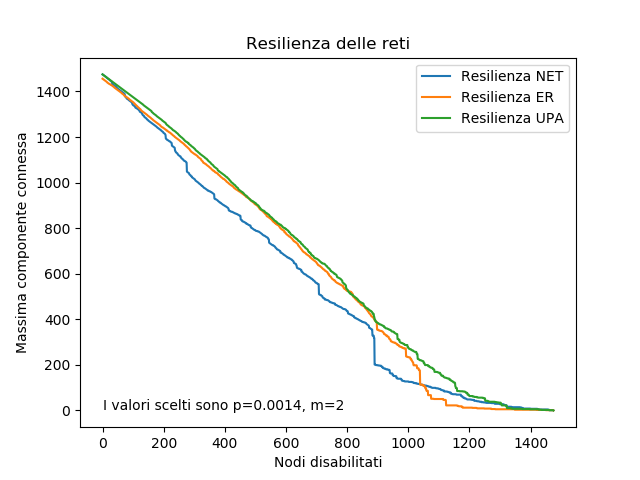
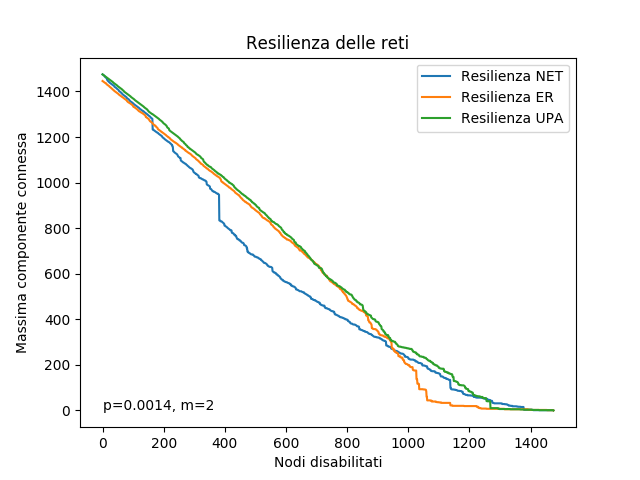
pusho tutto

diff --git a/lab2/es1.py b/lab2/es1.py
@@ -29,8 +29,25 @@ class Graph:
 
         return adj_list
 
-    def remove_node_from_graph(self):
-        to_remove = random.choice(list(self.adj_list.keys()))
+    def get_max_degree_node(self):
+        max = -1
+        key = None
+        for i in self.adj_list:
+            if len(self.adj_list[i]) > max:
+                max = len(self.adj_list[i])
+                key = i
+
+        print("Chiave:", key)
+        print("Nodi collegati:", self.adj_list[key])
+        print("Grado:", len(self.adj_list[key]))
+        return key
+
+
+
+#TODO: l'algoritmo va avanti fino a quando ha tolto tutti i nodi
+    def remove_node_from_graph(self, mode="random"):
+        # to remove = nodo da rimuovere, random = casuale, max = nodo con max grado
+        to_remove = self.get_max_degree_node() if mode == "max" else random.choice(list(self.adj_list.keys()))
         to_sanitize = self.adj_list.pop(to_remove)
         # print("NODO SCELTO", to_remove)
 
@@ -38,7 +55,6 @@ class Graph:
             for index, value in enumerate(self.adj_list[i]):
                 if value == to_remove:
                     self.adj_list[i].pop(index)
-
 
     def DFS_Visited(self, u, visited):
         self.color[u] = Color.BLACK
@@ -63,15 +79,24 @@ class Graph:
 
         return CC
 
+    def compute_resilience(self, CC):
+        max = 0
+        for i in CC:
+            if len(i) > max:
+                max = len(i)
 
-    def get_resiliences(self):
+        return max
+
+    def get_resiliences(self, p, mode="random"):
         resiliences = []
-        for i in range(n):
-            self.remove_node_from_graph()
+        for i in range(self.numNodes):
+            self.remove_node_from_graph(mode)
             CC = self.connected_components()
             # print("CC", CC)
-            #compute_resilience non è metodo della classe
-            resilience = compute_resilience(CC)
+            #TODO: compute_resilience non è metodo della classe
+            resilience = self.compute_resilience(CC)  # comp conn più grande in questo turno
+            if i + 1 == p:  # parte da 0
+                print("Resilienza dopo aver disattivato 20% di nodi:", 100/(self.numNodes - p + 1)*resilience, "%") #TODO +1 perche almeno una unita
             # print("Resilienza", resilience)
             resiliences.append(resilience)
         return resiliences
@@ -114,14 +139,6 @@ def UPA(n, m):
             E.append((u, v))
     return V, E
 
-def compute_resilience(CC):
-    max = 0
-    for i in CC:
-        if len(i) > max:
-            max = len(i)
-
-    return max
-
 
 def ER(n,p):
     V = [x for x in range(n)]
@@ -136,12 +153,13 @@ def ER(n,p):
 
 if __name__ == '__main__':
     data = np.loadtxt("./as19991212.txt", dtype=int)
-    coda = data[:,0]
-    testa = data[:,1]
+    coda = data[:, 0]
+    testa = data[:, 1]
     x = set(coda)
     y = set(testa)
     z = x.union(y)
     n = len(z)  # numero di nodi
+    twenty_percent = int(n * 0.20)  # frazione signifiicativa di nodi
 
     G_NET = Graph(z, data)
     adj_list_net = G_NET.adj_list
@@ -151,21 +169,23 @@ if __name__ == '__main__':
     print("NODI NET:", n)
     print("ARCHI NET:", int(sum([len(adj_list_net[i]) for i in z])/2))  # /2 perchè ci sono 2 archi
 
-    m=int(mean/2)
+    m = int(mean/2)
     V_UPA, E_UPA = UPA(n, m) # rich get richer va bene
     G_UPA = Graph(V_UPA, E_UPA)
     print("NODI UPA:", len(V_UPA))
     print("ARCHI UPA:", len(E_UPA))
 
-    p=0.0014
+    p = 0.0014
     V_ER, E_ER = ER(n, p)
     G_ER = Graph(V_ER, E_ER)
     print("NODI ER:", len(V_ER))
     print("ARCHI ER:", len(E_ER))
 
-    res_NET = G_NET.get_resiliences()
-    res_ER = G_ER.get_resiliences()
-    res_UPA = G_UPA.get_resiliences()
+    # modalità di attacco, "random" o "max"
+    mode = "max"
+    res_NET = G_NET.get_resiliences(n, mode)
+    res_ER = G_ER.get_resiliences(n, mode)
+    res_UPA = G_UPA.get_resiliences(n, mode)
 
     plt.plot(np.arange(0, len(res_NET)), res_NET, label="Resilienza NET")
     plt.plot(np.arange(0, len(res_ER)), res_ER, label="Resilienza ER")
@@ -175,7 +195,7 @@ if __name__ == '__main__':
     plt.ylabel("Massima componente connessa")
     plt.title("Resilienza delle reti")
 
-    plt.text(0, 0, 'I valori scelti sono p='+str(p)+', m='+str(m))
-    plt.savefig("lab2-es1.png")
+    plt.text(0, 0, 'p='+str(p)+', m='+str(m))
+    plt.savefig("lab2-es3.png")
 
     plt.show()

diff --git a/lab1/es3.py b/lab1/es3.py
@@ -25,6 +25,14 @@ class DPATrial:
 
         return V
 
+
+class ClassName(object):
+    """docstring for ClassName"""
+    def __init__(self, arg):
+        super(ClassName, self).__init__()
+        self.arg = arg
+        
+        
 # n >= 1, 1 <= m <= n
 def DPA(n, m):
     V = [x for x in range(m)]
